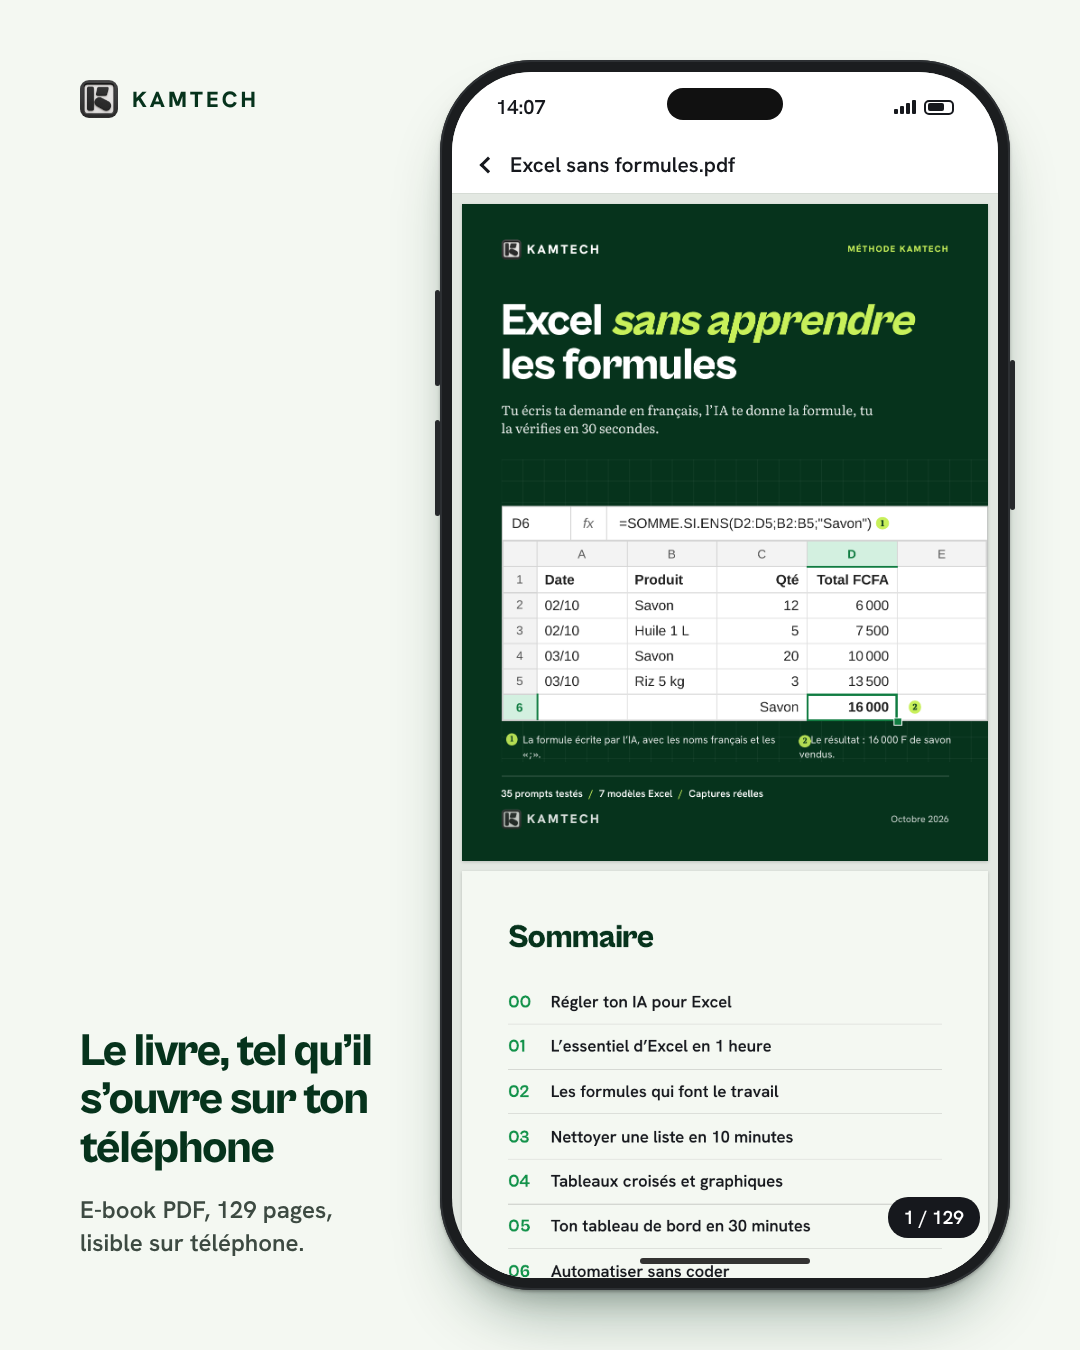
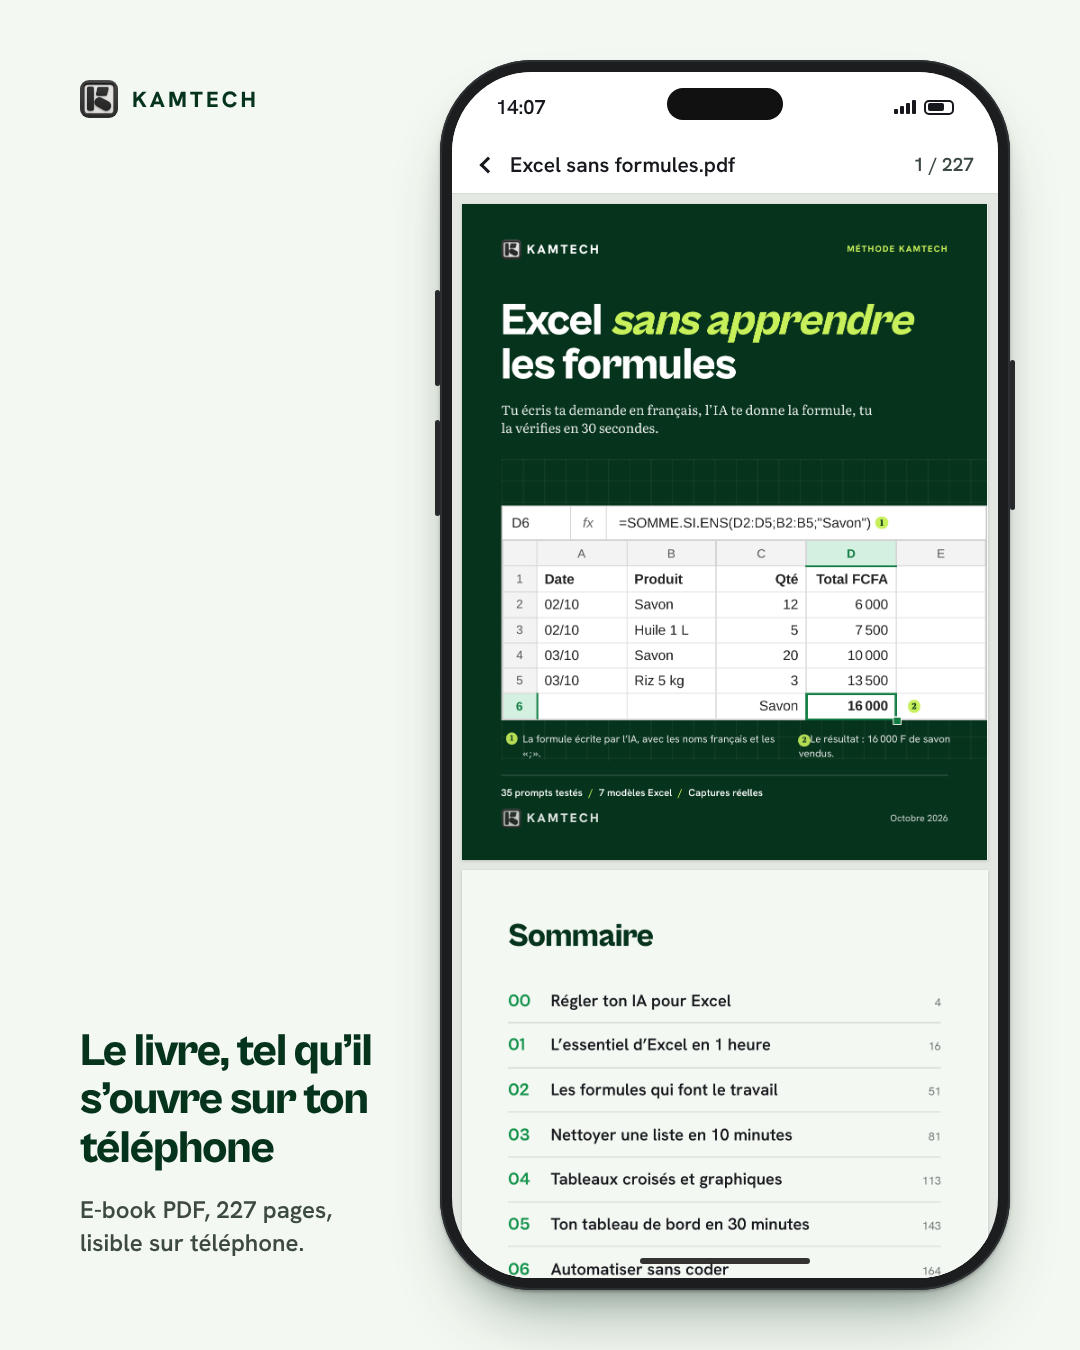
Visuels de vente (vignette, bannière, partage, 4 mockups, 3 affiches) et fiche : affirmations ajustées aux preuves
Claude-Session: https://claude.ai/code/session_01T8L22svZaEaGYSwza4q3Yc

diff --git a/produits/ebooks/excel/boutique/visuels/src/mockup-modele.html b/produits/ebooks/excel/boutique/visuels/src/mockup-modele.html
@@ -1,31 +1,23 @@
 <!doctype html><html lang="fr"><head><meta charset="utf-8"><link rel="stylesheet" href="base.css"><style>
 body{width:1080px;height:1350px;background:var(--fond);position:relative;color:var(--vf)}
-.phone{position:absolute;left:440px;top:60px}
-.leg{position:absolute;left:80px;bottom:90px;width:310px}
-.leg h2{font:800 46px/1.05 'Cabinet Grotesk';letter-spacing:-.025em}
-.leg p{margin-top:20px;font:600 24px/1.4 'Hanken Grotesk';color:var(--gris)}
 .logo{position:absolute;left:80px;top:80px;font-size:22px;color:var(--vf)}.logo img{width:38px;height:38px}
-.screen{background:#fff}
-.corps{position:absolute;top:122px;left:0;right:0;bottom:0;padding:22px 10px}
-.corps .cap{width:526px;display:block;border:1px solid #cfd6cd}
-.etq{font:600 19px 'Hanken Grotesk';color:#3D4A42;margin:20px 6px 8px}
-.fm{font:500 22px 'JetBrains Mono';background:#eef3ec;padding:14px 16px;border-radius:8px;color:#16181D}
-.lst{margin-top:26px;border-top:1px solid #d6dcd5}
-.lst div{display:flex;justify-content:space-between;padding:25px 6px;border-bottom:1px solid #d6dcd5;font:600 21px 'Hanken Grotesk';color:#16181D}
-.lst div.on{background:#f1f8d9;font-weight:800}
-.lst span{color:#3D4A42;font-weight:400}
+h2{position:absolute;left:80px;top:190px;font-size:104px;line-height:.98;color:var(--vf)}
+h2 em{color:var(--v)}
+.cap{position:absolute;left:80px;top:470px;width:920px;display:block;background:#fff;box-shadow:0 0 0 1px #c8d3c9,0 24px 40px -26px rgba(6,51,28,.4)}
+.src{position:absolute;left:80px;top:790px;font:400 24px 'Hanken Grotesk';color:var(--gris)}
+.ex{position:absolute;left:80px;top:850px;width:760px;font:600 34px/1.3 'Hanken Grotesk';color:var(--vf)}
+.l{position:absolute;left:80px;right:80px;top:975px;display:grid;grid-template-columns:1fr 1fr;column-gap:50px;border-top:2px solid var(--vf)}
+.l div{font:600 26px 'Hanken Grotesk';padding:13px 0;border-bottom:1px solid #c8d3c9;color:var(--vf)}
+.l b{font:800 26px 'Cabinet Grotesk';color:var(--v);margin-right:14px}
+.l .on{font-weight:800}
+.u{position:absolute;left:80px;bottom:56px;font:600 28px 'Hanken Grotesk'}
+.u b{font:800 34px 'Cabinet Grotesk';color:var(--vf);margin-right:18px}
 </style></head><body>
 <div class="logo"><img src="img/logo-kamtech.png" alt="">KAMTECH</div>
-<div class="phone"><div class="screen">{{statusbar}}
-<div class="appbar"><span class="bk"></span><span>1-Stock.xlsx</span></div>
-<div class="corps">
+<h2>Modèle Stock,<br><em>inclus</em></h2>
 <img class="cap" src="img/c7-stock.png" alt="">
-<p class="etq">Formule de la colonne F</p>
-<div class="fm">=SI(E2&lt;B2;"COMMANDER";"")</div>
-<p class="etq" style="margin-top:26px">Les 7 modèles inclus</p>
-<div class="lst">
-<div class="on">1-Stock.xlsx</div><div>2-Fiche-de-paie.xlsx</div><div>3-Facture-TVA.xlsx</div><div>4-Tontine.xlsx</div><div>5-Budget-Mobile-Money.xlsx</div><div>6-Tableau-de-bord.xlsx</div><div>7-Ventes-du-mois-tableau-croise.xlsx</div>
-</div></div>
-<div class="home"></div></div></div>
-<div class="leg"><h2>7 modèles Excel en FCFA inclus</h2><p>Le stock te dit quand écrire COMMANDER.</p></div>
+<p class="src">Capture réelle, LibreOffice Calc en français.</p>
+<p class="ex">La colonne Alerte écrit COMMANDER quand le reste passe sous le seuil.</p>
+<div class="l"><div class="on"><b>1</b>Stock</div><div><b>5</b>Budget Mobile Money</div><div><b>2</b>Fiche de paie</div><div><b>6</b>Tableau de bord</div><div><b>3</b>Facture avec TVA</div><div><b>7</b>Ventes du mois</div><div><b>4</b>Tontine</div></div>
+<p class="u"><b>7 modèles Excel en FCFA</b>kamtech.mychariow.com</p>
 </body></html>

diff --git a/produits/ebooks/excel/boutique/visuels/src/affiche-77.html b/produits/ebooks/excel/boutique/visuels/src/affiche-77.html
@@ -1,10 +1,10 @@
 <!doctype html><html lang="fr"><head><meta charset="utf-8"><link rel="stylesheet" href="base.css"><style>
 body{width:1080px;height:1350px;background:var(--fond);color:var(--vf);position:relative}
-.n{position:absolute;left:56px;top:64px;font-size:560px;line-height:.9;color:var(--v);letter-spacing:-.05em}
-.m{position:absolute;left:640px;top:180px;font-size:62px;line-height:1.02;color:var(--vf)}
-.m2{position:absolute;left:640px;top:360px;width:360px;text-wrap:balance;font:600 30px/1.3 'Hanken Grotesk';color:var(--gris)}
-.cap{position:absolute;left:80px;top:690px;width:920px;display:block;border:1px solid #c8d3c9}
-.src{position:absolute;left:80px;top:984px;font:400 24px 'Hanken Grotesk';color:var(--gris)}
+.n{position:absolute;left:56px;top:92px;font-size:560px;line-height:.9;color:var(--v);letter-spacing:-.05em}
+.m{position:absolute;left:640px;top:208px;font-size:62px;line-height:1.02;color:var(--vf)}
+.m2{position:absolute;left:640px;top:388px;width:360px;text-wrap:balance;font:600 30px/1.3 'Hanken Grotesk';color:var(--gris)}
+.cap{position:absolute;left:80px;top:650px;width:920px;display:block;border:1px solid #c8d3c9}
+.src{position:absolute;left:80px;top:944px;font:400 24px 'Hanken Grotesk';color:var(--gris)}
 .bas{position:absolute;left:0;right:0;bottom:0;height:200px;background:var(--vf);color:#fff;padding:0 80px;display:flex;justify-content:space-between;align-items:center}
 .bas .a{font:800 38px/1.1 'Cabinet Grotesk';letter-spacing:-.015em}
 .bas .a small{display:block;margin-top:8px;font:600 26px 'Hanken Grotesk';letter-spacing:0;color:#dfe9e2}
@@ -13,8 +13,8 @@ body{width:1080px;height:1350px;background:var(--fond);color:var(--vf);position:
 </style></head><body>
 <h1 class="n">77</h1>
 <p class="m t">tests réels<br>sur ChatGPT</p>
-<p class="m2">Chaque formule a été collée dans un vrai tableur.</p>
+<p class="m2">Et 58 cas vérifiés dans un vrai tableur en français.</p>
 <img class="cap" src="img/c7-stock.png" alt="">
 <p class="src">Capture réelle, LibreOffice Calc en français.</p>
-<div class="bas"><div class="a">Excel sans apprendre<br>les formules<small>129 pages · 35 prompts à copier</small></div><div><div class="p">2{f}500&nbsp;F</div><div class="u">kamtech.mychariow.com</div></div></div>
+<div class="bas"><div class="a">Excel sans apprendre<br>les formules<small>227 pages · 35 prompts à copier</small></div><div><div class="p">2{f}500&nbsp;F</div><div class="u">kamtech.mychariow.com</div></div></div>
 </body></html>

diff --git a/produits/ebooks/excel/boutique/visuels/src/affiche-erreur.html b/produits/ebooks/excel/boutique/visuels/src/affiche-erreur.html
@@ -3,7 +3,9 @@ body{width:1080px;height:1080px;background:var(--vf);color:#fff;position:relativ
 .k{position:absolute;left:80px;top:72px;font:600 28px 'Hanken Grotesk';color:#dfe9e2}
 .n{position:absolute;left:76px;top:122px;font-size:170px;line-height:1;color:var(--a)}
 .m{position:absolute;left:80px;top:300px;font-size:76px;line-height:1}
-.cap{position:absolute;left:80px;top:420px;width:920px;display:block}
+.cap{position:absolute;left:80px;top:420px;width:920px}
+.cap img{display:block;width:920px}
+.al{position:absolute;left:728px;top:332px;font:800 25px 'Hanken Grotesk';color:#D63B1F}
 .src{position:absolute;left:80px;top:812px;font:400 24px 'Hanken Grotesk';color:#c9d8ce}
 .pied{position:absolute;left:80px;right:80px;bottom:64px;border-top:2px solid rgba(255,255,255,.25);padding-top:26px;display:flex;justify-content:space-between;align-items:flex-end}
 .pied .a{font:600 28px/1.3 'Hanken Grotesk'}
@@ -14,7 +16,7 @@ body{width:1080px;height:1080px;background:var(--vf);color:#fff;position:relativ
 <p class="k">Une vraie réponse de ChatGPT{f}:</p>
 <h1 class="n">427{f}500{f}000</h1>
 <p class="m t">au lieu de 15{f}000.</p>
-<img class="cap" src="img/err427.png" alt="">
-<p class="src">Capture réelle, LibreOffice Calc en français. Aucun message d’erreur.</p>
-<div class="pied"><div class="a"><b>Excel sans apprendre les formules</b>Apprends à le vérifier en 30 secondes.</div><div><div class="p">2{f}500&nbsp;F</div><div class="u">kamtech.mychariow.com</div></div></div>
+<div class="cap"><img src="img/err427.png" alt=""><span class="al">← aucune alerte</span></div>
+<p class="src">Capture réelle, LibreOffice Calc en français.</p>
+<div class="pied"><div class="a"><b>Excel sans apprendre les formules</b>Vérifie chaque formule en 30 secondes.</div><div><div class="p">2{f}500&nbsp;F</div><div class="u">kamtech.mychariow.com</div></div></div>
 </body></html>

diff --git a/produits/ebooks/excel/boutique/visuels/src/story.html b/produits/ebooks/excel/boutique/visuels/src/story.html
@@ -12,9 +12,9 @@ h1{position:absolute;left:80px;top:270px;font-size:128px;line-height:.96;color:v
 .phone{box-shadow:0 0 0 2px #2d3033 inset,0 2px 3px rgba(0,0,0,.25),0 30px 50px -24px rgba(6,51,28,.55)}
 </style></head><body>
 <h1>35 prompts<br>prêts à copier.</h1>
-<div class="g"><div class="l"><p>Tu copies, tu colles dans l’IA, tu vérifies.</p><p>129 pages<br>7 modèles Excel en FCFA</p></div>
+<div class="g"><div class="l"><p>Tu copies, tu colles dans l’IA, tu vérifies.</p><p>227 pages<br>7 modèles Excel en FCFA</p></div>
 <div class="p">2{f}500&nbsp;F</div><div class="u">kamtech.mychariow.com</div></div>
 <div class="w"><div class="phone" style="position:relative"><div class="screen">{{statusbar}}
-<div class="appbar"><span class="bk"></span><span>Excel sans formules.pdf</span></div>
-<div class="scroll"><img class="pg" src="img/p36-036.png" style="margin-top:-108px"><img class="pg" src="img/p37-037.png"></div><div class="count">36 / 129</div><div class="home"></div></div></div></div>
+<div class="appbar"><span class="bk"></span><span>Excel sans formules.pdf</span><span class="pgn">55 / 227</span></div>
+<div class="scroll"><img class="pg" src="img/n54-054.png" style="margin-top:-408px"><img class="pg" src="img/n55-055.png"><img class="pg" src="img/n56-056.png"></div><div class="home"></div></div></div></div>
 </body></html>

diff --git a/produits/ebooks/excel/boutique/visuels/src/mockup-couverture.html b/produits/ebooks/excel/boutique/visuels/src/mockup-couverture.html
@@ -9,7 +9,7 @@ body{width:1080px;height:1350px;background:#F4F8F2;position:relative;color:var(-
 </style></head><body>
 <div class="logo"><img src="img/logo-kamtech.png" alt="">KAMTECH</div>
 <div class="phone"><div class="screen">{{statusbar}}
-<div class="appbar"><span class="bk"></span><span>Excel sans formules.pdf</span></div><div class="scroll"><img class="pg" src="img/cover.png" style="margin-top:10px"><img class="pg" src="img/p2.png"></div><div class="count">1 / 129</div>
+<div class="appbar"><span class="bk"></span><span>Excel sans formules.pdf</span><span class="pgn">1 / 227</span></div><div class="scroll"><img class="pg" src="img/n1-001.png" style="margin-top:10px"><img class="pg" src="img/n2-002.png"></div>
 <div class="home"></div></div></div>
-<div class="leg"><h2>Le livre, tel qu’il s’ouvre sur ton téléphone</h2><p>E-book PDF, 129 pages, lisible sur téléphone.</p></div>
+<div class="leg"><h2>Le livre, tel qu’il s’ouvre sur ton téléphone</h2><p>E-book PDF, 227 pages, lisible sur téléphone.</p></div>
 </body></html>

diff --git a/produits/ebooks/excel/boutique/visuels/src/mockup-prompt.html b/produits/ebooks/excel/boutique/visuels/src/mockup-prompt.html
@@ -9,7 +9,7 @@ body{width:1080px;height:1350px;background:#F4F8F2;position:relative;color:var(-
 </style></head><body>
 <div class="logo"><img src="img/logo-kamtech.png" alt="">KAMTECH</div>
 <div class="phone"><div class="screen">{{statusbar}}
-<div class="appbar"><span class="bk"></span><span>Excel sans formules.pdf</span></div><div class="scroll"><img class="pg" src="img/p36-036.png" style="margin-top:-108px"><img class="pg" src="img/p37-037.png"></div><div class="count">36 / 129</div>
+<div class="appbar"><span class="bk"></span><span>Excel sans formules.pdf</span><span class="pgn">55 / 227</span></div><div class="scroll"><img class="pg" src="img/n54-054.png" style="margin-top:-408px"><img class="pg" src="img/n55-055.png"><img class="pg" src="img/n56-056.png"></div>
 <div class="home"></div></div></div>
 <div class="leg"><h2>Un prompt à copier, la vraie réponse de l’IA</h2><p>35 prompts prêts à copier, testés sur ChatGPT.</p></div>
 </body></html>

diff --git a/produits/ebooks/excel/boutique/visuels/src/mockup-capture.html b/produits/ebooks/excel/boutique/visuels/src/mockup-capture.html
@@ -9,7 +9,7 @@ body{width:1080px;height:1350px;background:#F4F8F2;position:relative;color:var(-
 </style></head><body>
 <div class="logo"><img src="img/logo-kamtech.png" alt="">KAMTECH</div>
 <div class="phone"><div class="screen">{{statusbar}}
-<div class="appbar"><span class="bk"></span><span>Excel sans formules.pdf</span></div><div class="scroll"><img class="pg" src="img/p37-037.png" style="margin-top:-6px"><img class="pg" src="img/p38-038.png"></div><div class="count">37 / 129</div>
+<div class="appbar"><span class="bk"></span><span>Excel sans formules.pdf</span><span class="pgn">57 / 227</span></div><div class="scroll"><img class="pg" src="img/n57-057.png" style="margin-top:-6px"><img class="pg" src="img/n58-058.png"></div>
 <div class="home"></div></div></div>
 <div class="leg"><h2>Chaque résultat est une vraie capture</h2><p>Repères numérotés, LibreOffice Calc en français.</p></div>
 </body></html>

diff --git a/produits/ebooks/excel/boutique/visuels/src/partage.html b/produits/ebooks/excel/boutique/visuels/src/partage.html
@@ -11,7 +11,7 @@ h1 em{color:var(--v)}
 </style></head><body>
 <div class="logo"><img src="img/logo-kamtech.png" alt="">KAMTECH</div>
 <h1>Excel <em>sans</em><br>apprendre<br>les formules</h1>
-<p class="faits">129 pages · 35 prompts à copier<br>7 modèles Excel en FCFA</p>
+<p class="faits">227 pages · 35 prompts à copier<br>7 modèles Excel en FCFA</p>
 <div class="prix"><b>2{f}500&nbsp;F</b><span>kamtech.mychariow.com</span></div>
-<img class="couv" src="img/cover.png" alt="">
+<img class="couv" src="img/n1-001.png" alt="">
 </body></html>

diff --git a/produits/ebooks/excel/boutique/visuels/src/base.css b/produits/ebooks/excel/boutique/visuels/src/base.css
@@ -32,3 +32,5 @@ em{font-style:italic;color:var(--a)}
 .pg{display:block;width:526px;height:auto;box-shadow:0 1px 3px rgba(0,0,0,.18);margin-bottom:10px;background:#fff}
 .home{position:absolute;bottom:14px;left:50%;width:170px;height:6px;margin-left:-85px;background:#111;border-radius:3px;z-index:5;opacity:.85}
 .count{position:absolute;right:18px;bottom:40px;z-index:5;background:#16181D;color:#fff;font:600 19px 'Hanken Grotesk';padding:8px 16px;border-radius:20px}
+
+.appbar .pgn{margin-left:auto;font:600 19px 'Hanken Grotesk';color:#3D4A42}

diff --git a/produits/ebooks/excel/boutique/visuels/src/vignette.html b/produits/ebooks/excel/boutique/visuels/src/vignette.html
@@ -9,5 +9,5 @@ h1{position:absolute;left:80px;top:50px;font-size:212px;line-height:.9}
 </style></head><body>
 <h1>Excel<br><em>sans</em><br>formules</h1>
 <div class="feuille"><img src="img/feuille-couv.png" alt=""><div class="cache"></div></div>
-<div class="pied"><div class="logo"><img src="img/logo-kamtech.png" alt="">KAMTECH</div><div class="m">E-book PDF · 129 pages</div></div>
+<div class="pied"><div class="logo"><img src="img/logo-kamtech.png" alt="">KAMTECH</div><div class="m">E-book PDF · 227 pages</div></div>
 </body></html>

diff --git a/produits/ebooks/excel/boutique/visuels/src/banniere.html b/produits/ebooks/excel/boutique/visuels/src/banniere.html
@@ -21,7 +21,7 @@ h1{font-size:84px;line-height:1}
 <div class="g"></div>
 <div class="centre"><div class="bloc">
 <h1>Excel <em>sans apprendre</em><br>les formules</h1>
-<p class="l2">129 pages · 35 prompts prêts à copier · 7 modèles Excel en FCFA</p>
+<p class="l2">227 pages · 35 prompts prêts à copier · 7 modèles Excel en FCFA</p>
 <p class="l3"><b>2{f}500&nbsp;F</b> · kamtech.mychariow.com</p>
 </div></div>
 </body></html>

diff --git a/produits/ebooks/excel/boutique/visuels/AUTOCRITIQUE.md b/produits/ebooks/excel/boutique/visuels/AUTOCRITIQUE.md
@@ -1,16 +1,16 @@
 # Autocritique des visuels (passes successives)
 
-Chiffres vérifiés : 8 chapitres, 129 pages, 35 prompts, 7 modèles, 77 tests ChatGPT, 2 500 F, 427 500 000 au lieu de 15 000. Les chiffres « 84 tests » et « 58 formules » ont été retirés (consigne du superviseur).
+Chiffres vérifiés : 8 chapitres, 227 pages, 35 prompts, 7 modèles, 77 tests ChatGPT, 2 500 F, 427 500 000 au lieu de 15 000. Les chiffres « 84 tests » et « 58 formules » ont été retirés (consigne du superviseur).
 
 ## Vignette 1200 × 1200
 - Passe 1 : titre à 228 px trop haut, la feuille de calcul entrait en collision avec le pied de page (logo illisible). Corrigé : titre 212 px, feuille rognée à la ligne 4, pied dégagé.
 - Passe 2 : le repère « 1 » de la couverture restait sans légende dans la barre de formule. Masqué par un aplat blanc. Pastille « EXCEL + IA » de l’ancienne vignette et dégradé radial supprimés (anti-slop de la charte).
-- Passe 3 (200 px) : « Excel sans formules » se lit sans effort, la feuille reste identifiable comme un tableur. Le pied de page (logo, 129 pages) est illisible à 200 px, c’est voulu (secondaire).
+- Passe 3 (200 px) : « Excel sans formules » se lit sans effort, la feuille reste identifiable comme un tableur. Le pied de page (logo, 227 pages) est illisible à 200 px, c’est voulu (secondaire).
 
 ## Bannière 1620 × 600
 - Passe 1 : le bloc de texte avait un fond uni qui découpait la grille en rectangle visible. Corrigé : grille masquée au centre par un masque horizontal, texte posé directement.
 - Passe 2 : texte contenu dans environ 880 px au centre (1 067 px suffisent pour un recadrage 16:9), marges verticales de 180 px.
-- Passe 3 : contraste mesuré (blanc cassé sur #06331C ≥ 10:1, lettres de colonnes #A9C4B3 sur #0B4526 environ 6:1). Reste perfectible : un recadrage plus étroit que 16:9 couperait la ligne « 129 pages · 35 prompts… ».
+- Passe 3 : contraste mesuré (blanc cassé sur #06331C ≥ 10:1, lettres de colonnes #A9C4B3 sur #0B4526 environ 6:1). Reste perfectible : un recadrage plus étroit que 16:9 couperait la ligne « 227 pages · 35 prompts… ».
 
 ## Image de partage 1200 × 627
 - Passe 1 : le titre sur une ligne passait sous la couverture. Corrigé par une largeur de 580 px.
@@ -39,3 +39,14 @@ Chiffres vérifiés : 8 chapitres, 129 pages, 35 prompts, 7 modèles, 77 tests C
 
 ## Slop écarté
 Pas de dégradé, de halo, d’étoile, d’emoji, de badge, de carte inclinée ni de reflet. Open Peeps non utilisés (aucun visuel ne les justifiait).
+
+## Passe supplémentaire : nouveau PDF de 227 pages
+Le PDF corrigé (227 pages) a remplacé l’ancien : pages utilisées re-rendues à 200 dpi (couverture p.1, sommaire p.2, p.54 et p.55 pour le prompt 2.2, p.57 et p.58 pour la capture annotée et l’erreur 427 500 000). Anciennes images supprimées de `src/img`. « 129 » remplacé par « 227 » partout (vérifié par recherche dans les sources), pastilles « n / 227 » avec le vrai numéro de page.
+- Pastille du lecteur : elle chevauchait des lignes du livre. Déplacée dans la barre de l’application (à droite du nom du fichier). La barre d’accueil du téléphone ne barre plus une ligne de texte (défilement décalé de 23 px).
+- Mockup prompt et story : ils enchaînent maintenant p.54 (bas), p.55 et p.56, pages contiguës réelles, au lieu d’une page quasi vide.
+- Mockup modèle : l’interface « liste de fichiers » inventée est supprimée. Il montre la vraie capture du modèle Stock, la légende « Modèle Stock, inclus », une phrase déduite de la capture (COMMANDER quand le reste passe sous le seuil) et la liste des 7 modèles (noms du livre). Aucun cadre d’interface dessiné. Reste perfectible : pas d’appareil, donc moins « mockup » que les trois autres.
+- Affiche 427 500 000 : la marge blanche à droite de la capture porte maintenant une annotation rouge « ← aucune alerte » (fait établi par le livre). Reste perfectible : l’annotation est ajoutée sur la capture, à signaler comme dans le livre (repères annotés).
+- Affiche 77 : vide de 130 px sous la légende réparti en deux marges égales (140 px au-dessus et au-dessous de la capture).
+- Partage : couverture remplacée par la version pleine page du nouveau PDF (une image manquante a été repérée au rendu et corrigée).
+- Note : la couverture imprimée dit encore « 35 prompts testés / 7 modèles Excel / Captures réelles ». Cohérent avec les visuels, rien à changer côté visuels.
+- Poids : tous les PNG font entre 54 et 275 Ko, bien sous 2 Mo.
